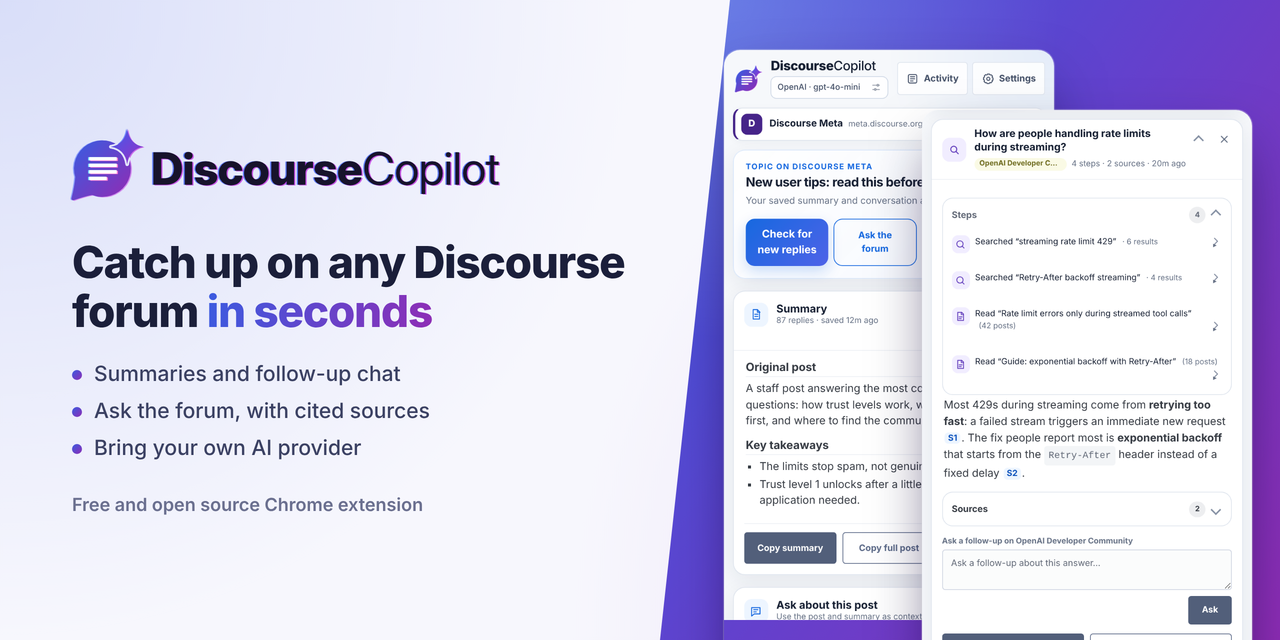
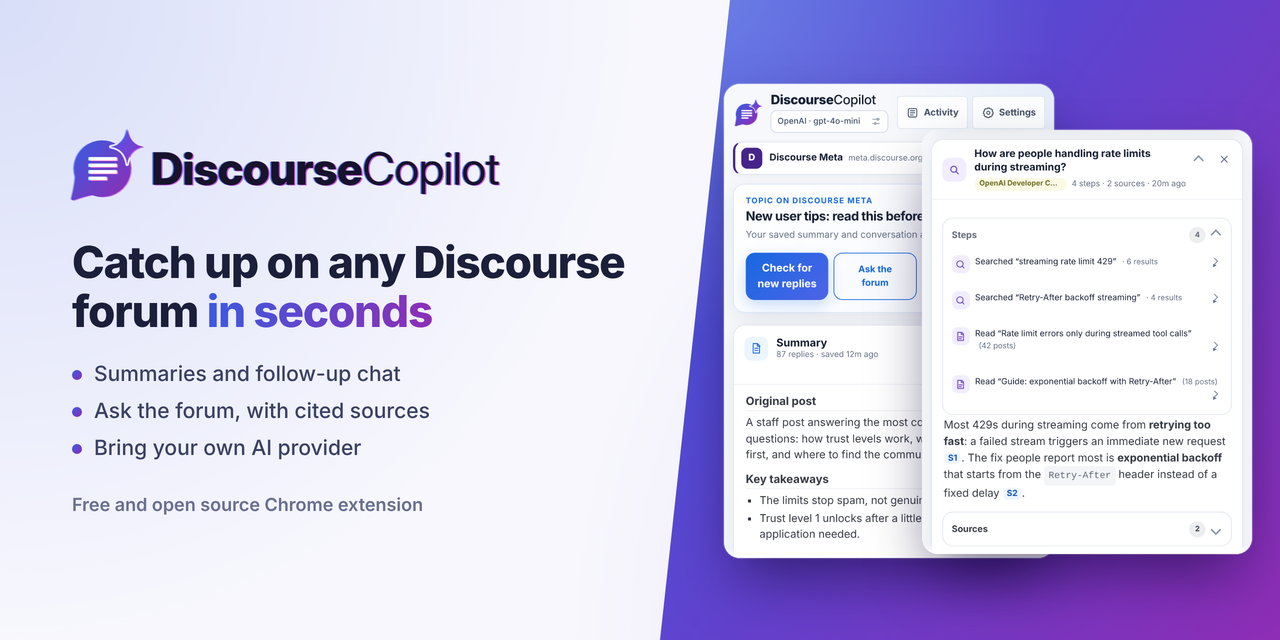
docs: social preview cards end inside the tile
The two panel captures ran off the bottom edge and read as cut off; each
card now ends between two blocks of the panel, fully inside the tile.

Claude-Session: https://claude.ai/code/session_01NMwrA1n5sUVxaMaj7gS3Cu

Changed region(s): [[0.5625, 0.0625, 1.0, 1.0]]

diff --git a/tools/ui/templates/store/social-preview.html b/tools/ui/templates/store/social-preview.html
@@ -16,9 +16,12 @@
     linear-gradient(125deg, #3A5BE0 0%, #6440CC 50%, #8E2DB5 100%);
   clip-path: polygon(70px 0, 100% 0, 100% 100%, 0 100%); }
 .card { position: absolute; width: 330px; border-radius: 16px; overflow: hidden; box-shadow: 0 28px 60px -12px rgba(15,5,50,0.6), 0 0 0 1px rgba(255,255,255,0.25); }
+.card { background: #fff; }
 .card img { display: block; width: 100%; }
-.c1 { left: 64px; top: 50px; height: 640px; }
-.c2 { left: 262px; top: 110px; height: 640px; }
+/* The cards end inside the tile, each between two blocks of the panel, so nothing is cut mid-line. */
+.card::after { content: ""; position: absolute; left: 0; right: 0; bottom: 0; height: 10px; background: linear-gradient(to bottom, rgba(255,255,255,0), #fff); }
+.c1 { left: 64px; top: 84px; height: 474px; }
+.c2 { left: 262px; top: 130px; height: 424px; }
 </style></head><body><div class="tile">
 <div class="left">
   <img src="/brand/wordmark/discoursecopilot-wordmark-horizontal-on-light.svg" alt="DiscourseCopilot">
